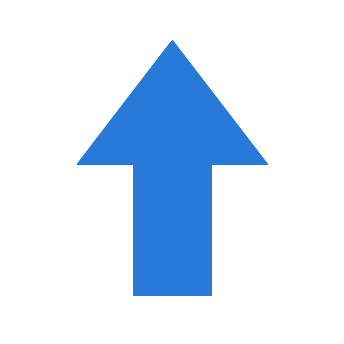
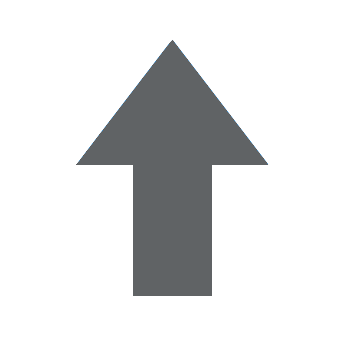
Change the color of the buttons

Changed region(s): [[0.2326, 0.1163, 0.7849, 0.8721]]

diff --git a/frontend/css/index.css b/frontend/css/index.css
@@ -233,8 +233,8 @@ input[name=transaction-option] + label {
   display: flex;
   align-items: center;
   justify-content: flex-start;
-  border: 2px solid rgb(40, 122, 216);
-  color: rgb(40, 122, 216);
+  border: 2px solid #606365;
+  color: #606365;
   border-radius: .5rem;
   padding: .5rem 0rem .5rem 3rem;
   margin: 0 1rem 0 0;
@@ -255,7 +255,7 @@ input[name=transaction-option] {
 }
 
 input[name=transaction-option]:checked + label {
-  background-color: rgb(40, 122, 216);
+  background-color: #606365;
   color: white;
   transition-property: background-color, color;
   transition-duration: .2s;
@@ -282,7 +282,7 @@ input[name=transaction-option]:checked + label {
 #withdraw-image:has(+input[name=transaction-option]:checked) ,
 #transfer-image:has(+input[name=transaction-option]:checked) {
   border: 2px solid white;
-  background-color: #0073c5;
+  background-color: #606365;
 }
 
 #deposit-image {
